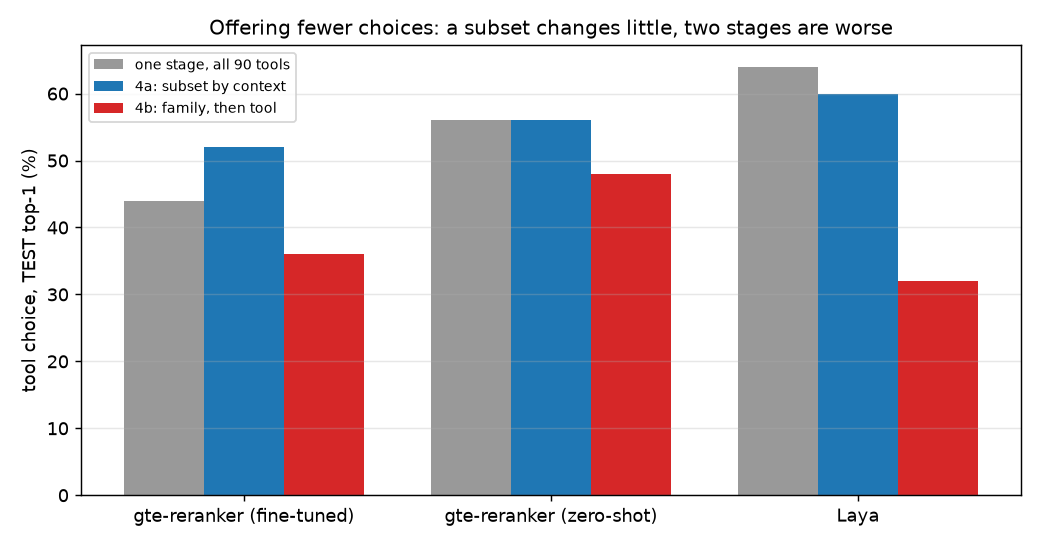
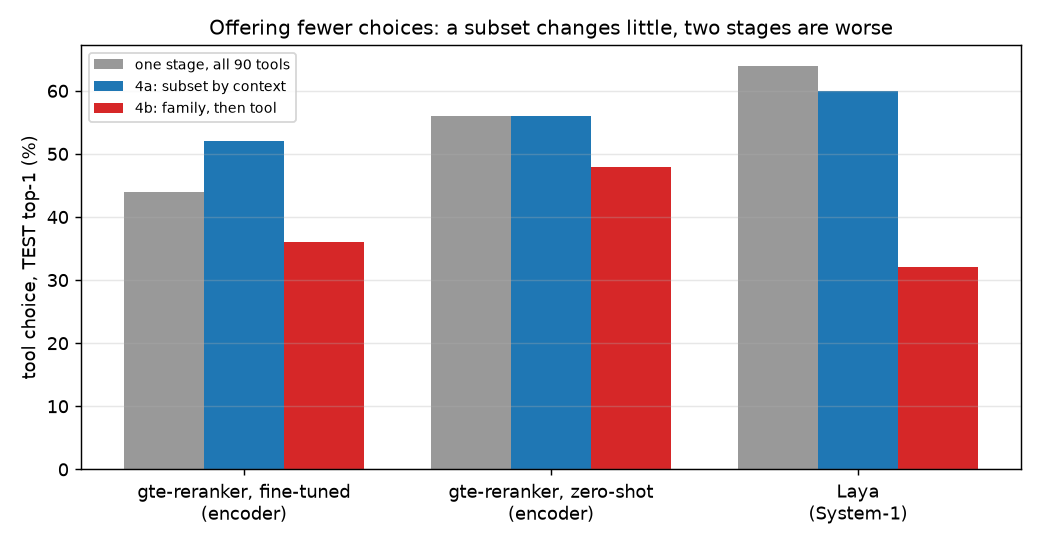
Charts: the point's shape says what kind of model an engine is (System-1 decision model, encoder, LLM), with a legend

diff --git a/bench/naga/plot.py b/bench/naga/plot.py
@@ -24,6 +24,13 @@ LABELS = {"gte-rerank": "gte-reranker (zero-shot)", "qwen3-rerank": "Qwen3-Reran
           "von": "Von 1.3", "haiku": "Claude Haiku 5.5 (API)"}
 
 
+# What kind of model each engine is, drawn as the point's shape: System-1 decision models (built to
+# answer a multiple-choice question in one pass), encoders (rerankers, NLI, embeddings) and LLMs.
+KINDS = {"System-1 decision model": ("o", ("laya", "von", "gliner2")),
+         "encoder (reranker, NLI, embedding)": ("s", ("gte-rerank", "tuned", "qwen3-rerank", "nli", "harrier-bi")),
+         "LLM": ("^", ("gemma4", "haiku"))}
+MARKER = {e: m for m, es in KINDS.values() for e in es}
+
 # Label offsets (points) where two engines sit almost on top of each other.
 OFFSET = {"gliner2": (7, -12), "laya": (10, -3)}
 
@@ -64,7 +71,7 @@ def hero():
                                               ("Model building (40 block + 30 distribution sentences)", ["blocks", "distributions"], None))):
         pts, base = points(tasks, split)
         for e, (x, y) in pts.items():
-            ax.scatter(x, y, s=90, color=COLORS[e], zorder=3)
+            ax.scatter(x, y, s=90, color=COLORS[e], marker=MARKER.get(e, "s"), zorder=3)
             ax.annotate(LABELS[e], (x, y), textcoords="offset points", xytext=OFFSET.get(e, (7, 4)), fontsize=8)
         ax.axhline(base, ls="--", color="#555", lw=1)
         ax.text(20 * 1.1, base + 1.2, "BM25 search alone (no model)", fontsize=8, color="#555")
@@ -74,8 +81,10 @@ def hero():
         ax.set_xlabel("median latency per decision (ms, log scale; RTX A500 4 GB)")
         ax.grid(alpha=0.3, zorder=0)
     axes[0].set_ylabel("top-1 accuracy (%)")
-    fig.suptitle("System-1 engines on naga decisions: faster to the left, more accurate up", fontsize=12)
-    fig.tight_layout()
+    shapes = [plt.Line2D([], [], ls="", marker=m, color="#444", markersize=8, label=kind) for kind, (m, _) in KINDS.items()]
+    fig.legend(handles=shapes, loc="lower center", ncol=3, fontsize=9, frameon=False)
+    fig.suptitle("Engines on naga decisions: faster to the left, more accurate up", fontsize=12)
+    fig.tight_layout(rect=(0, 0.06, 1, 1))
     fig.savefig(OUT / "hero.png", dpi=130)
 
 
@@ -88,7 +97,7 @@ def retries():
             te = [r for r in load(f"retry.{e}.{v}.{task}") if r["split"] == "TEST"]
             ys = [100 * sum(r["won_at"] is not None and r["won_at"] <= k for r in te) / n for k in (1, 2, 3)]
             ax.bar([k + (i - 1.5) * 0.2 for k in (1, 2, 3)], ys, width=0.2, color=c,
-                   label=f"{'fine-tuned gte' if e == 'tuned' else 'Laya'}, {v}")
+                   label=f"{'fine-tuned gte (encoder)' if e == 'tuned' else 'Laya (System-1)'}, {v}")
         ax.set_title(f"{task} ({n} test rows)", fontsize=10)
         ax.set_xticks([1, 2, 3], ["1 try", "2 tries", "3 tries"])
         ax.grid(axis="y", alpha=0.3)
@@ -100,7 +109,7 @@ def retries():
 
 
 def phase4():
-    names = {"tuned": "gte-reranker (fine-tuned)", "gte": "gte-reranker (zero-shot)", "laya": "Laya"}
+    names = {"tuned": "gte-reranker, fine-tuned\n(encoder)", "gte": "gte-reranker, zero-shot\n(encoder)", "laya": "Laya\n(System-1)"}
     base = {"tuned": "tuned", "gte": "gte-rerank", "laya": "laya"}
     fig, ax = plt.subplots(figsize=(8, 4.2))
     for j, e in enumerate(names):
